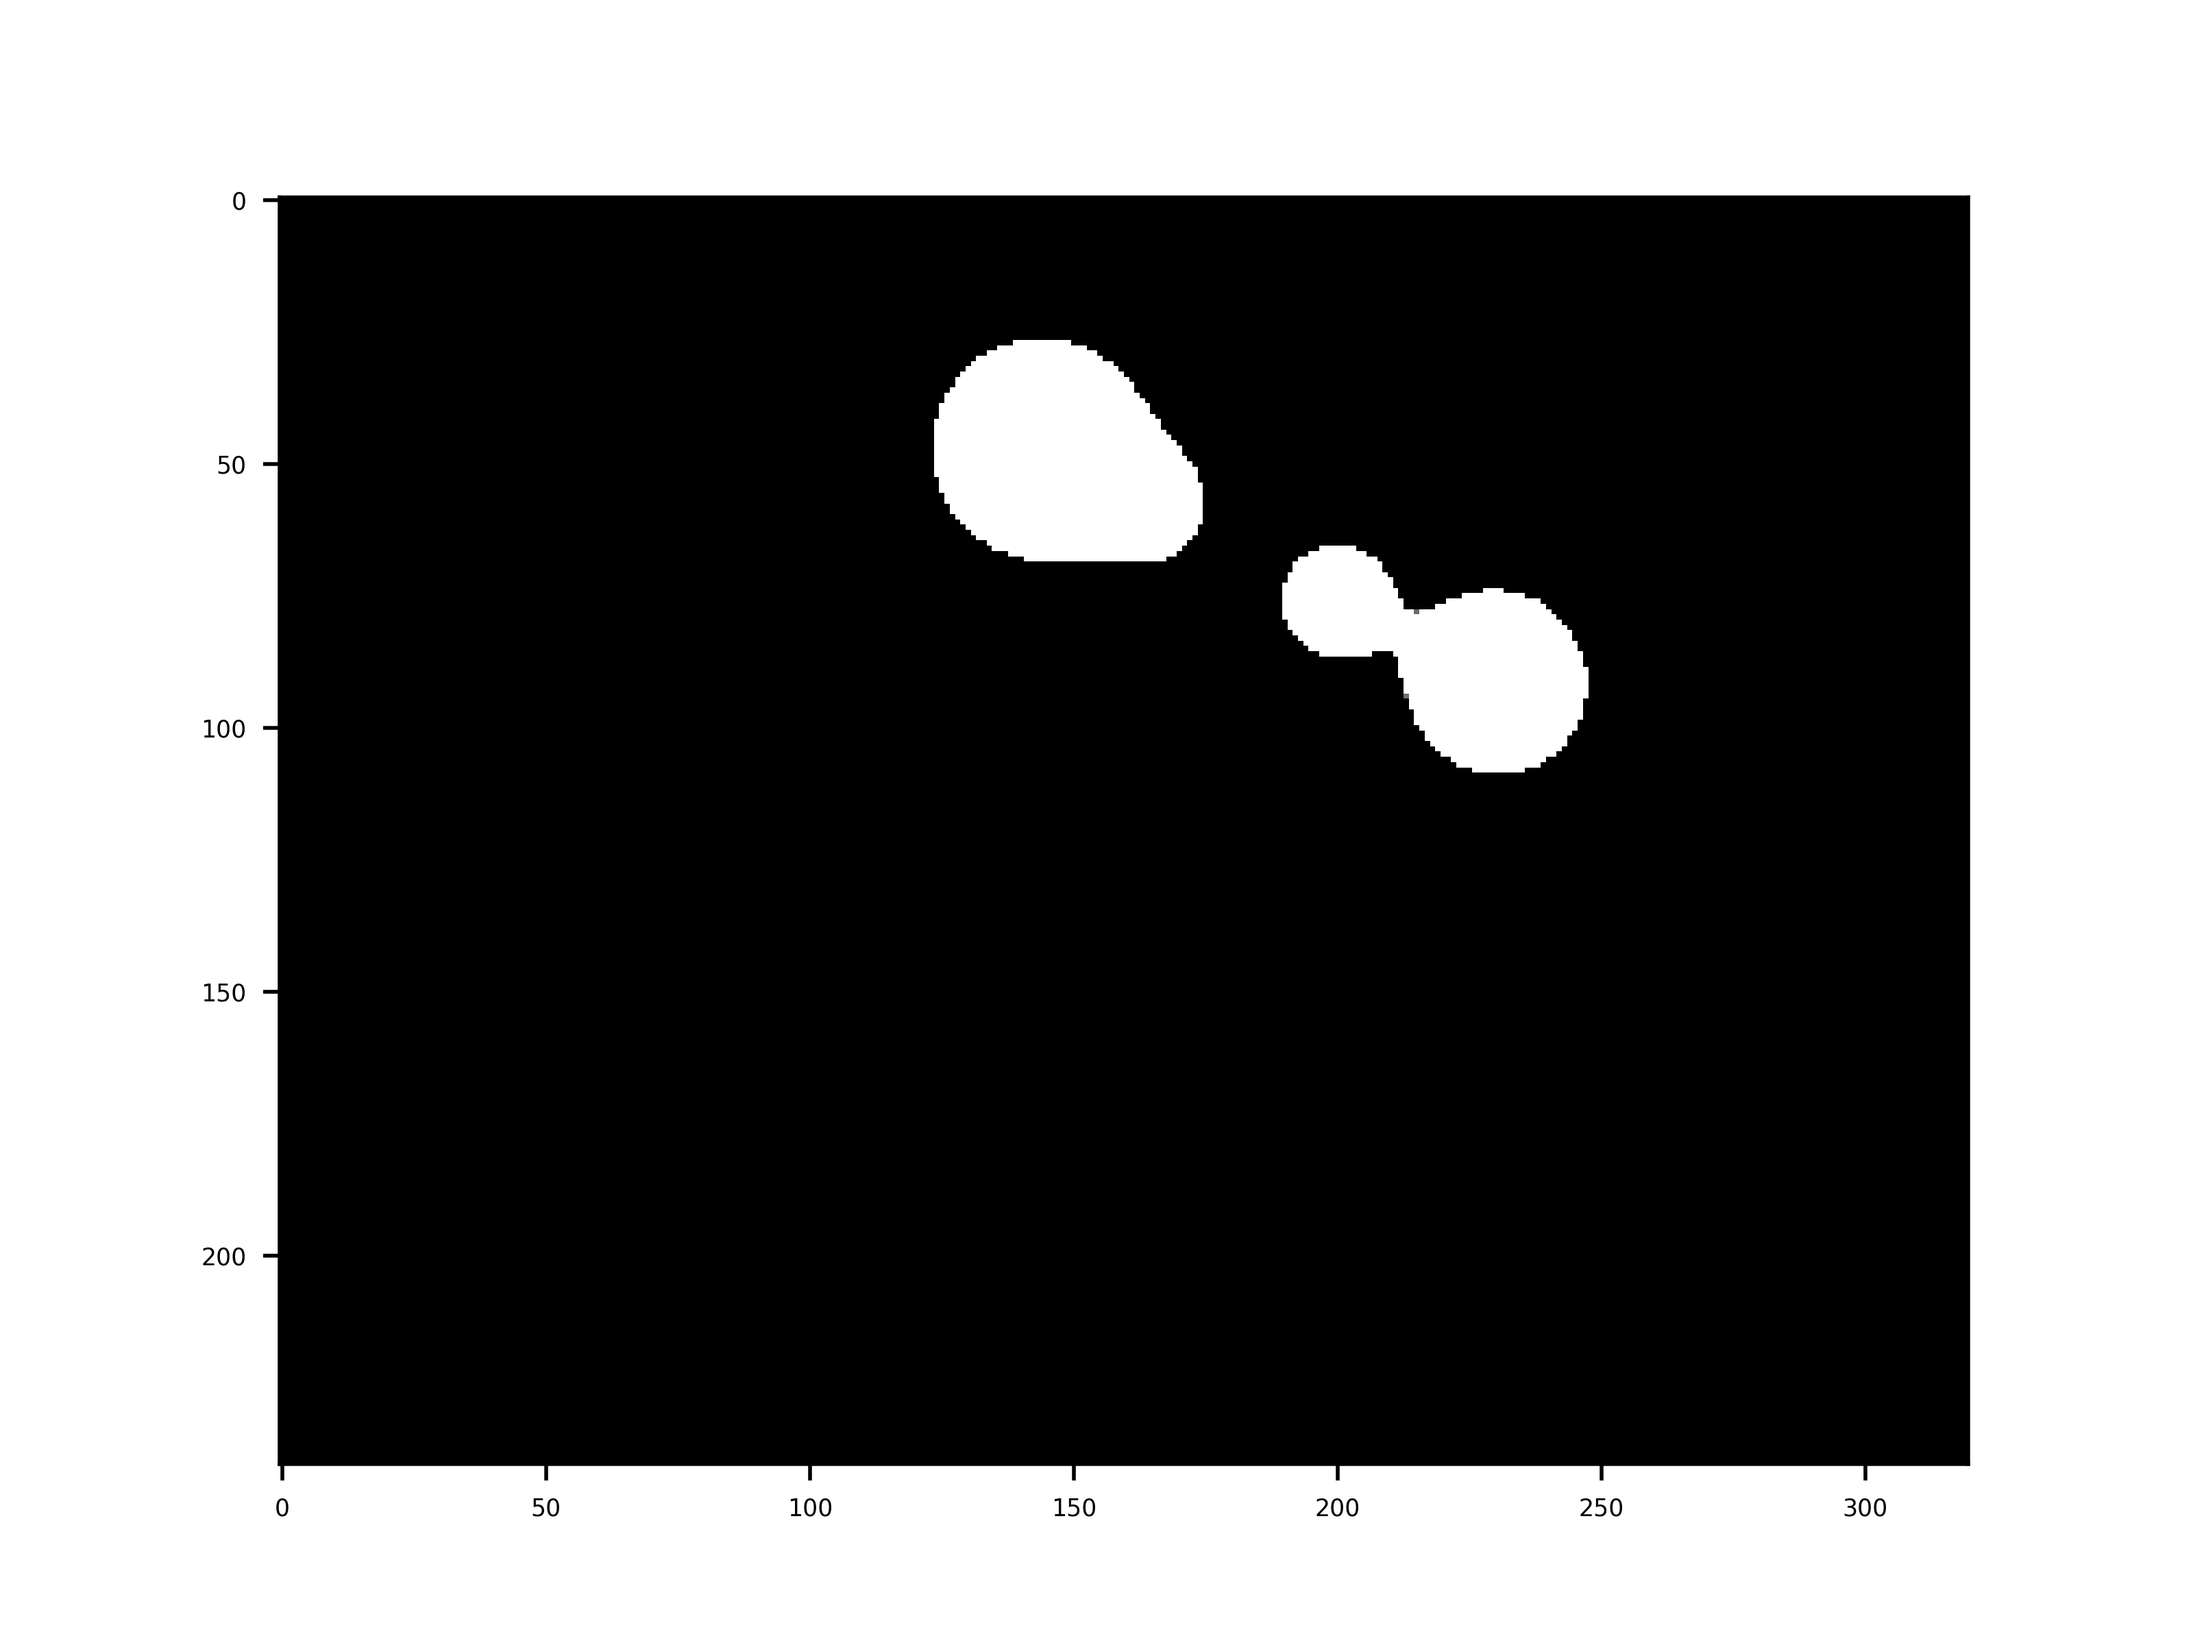
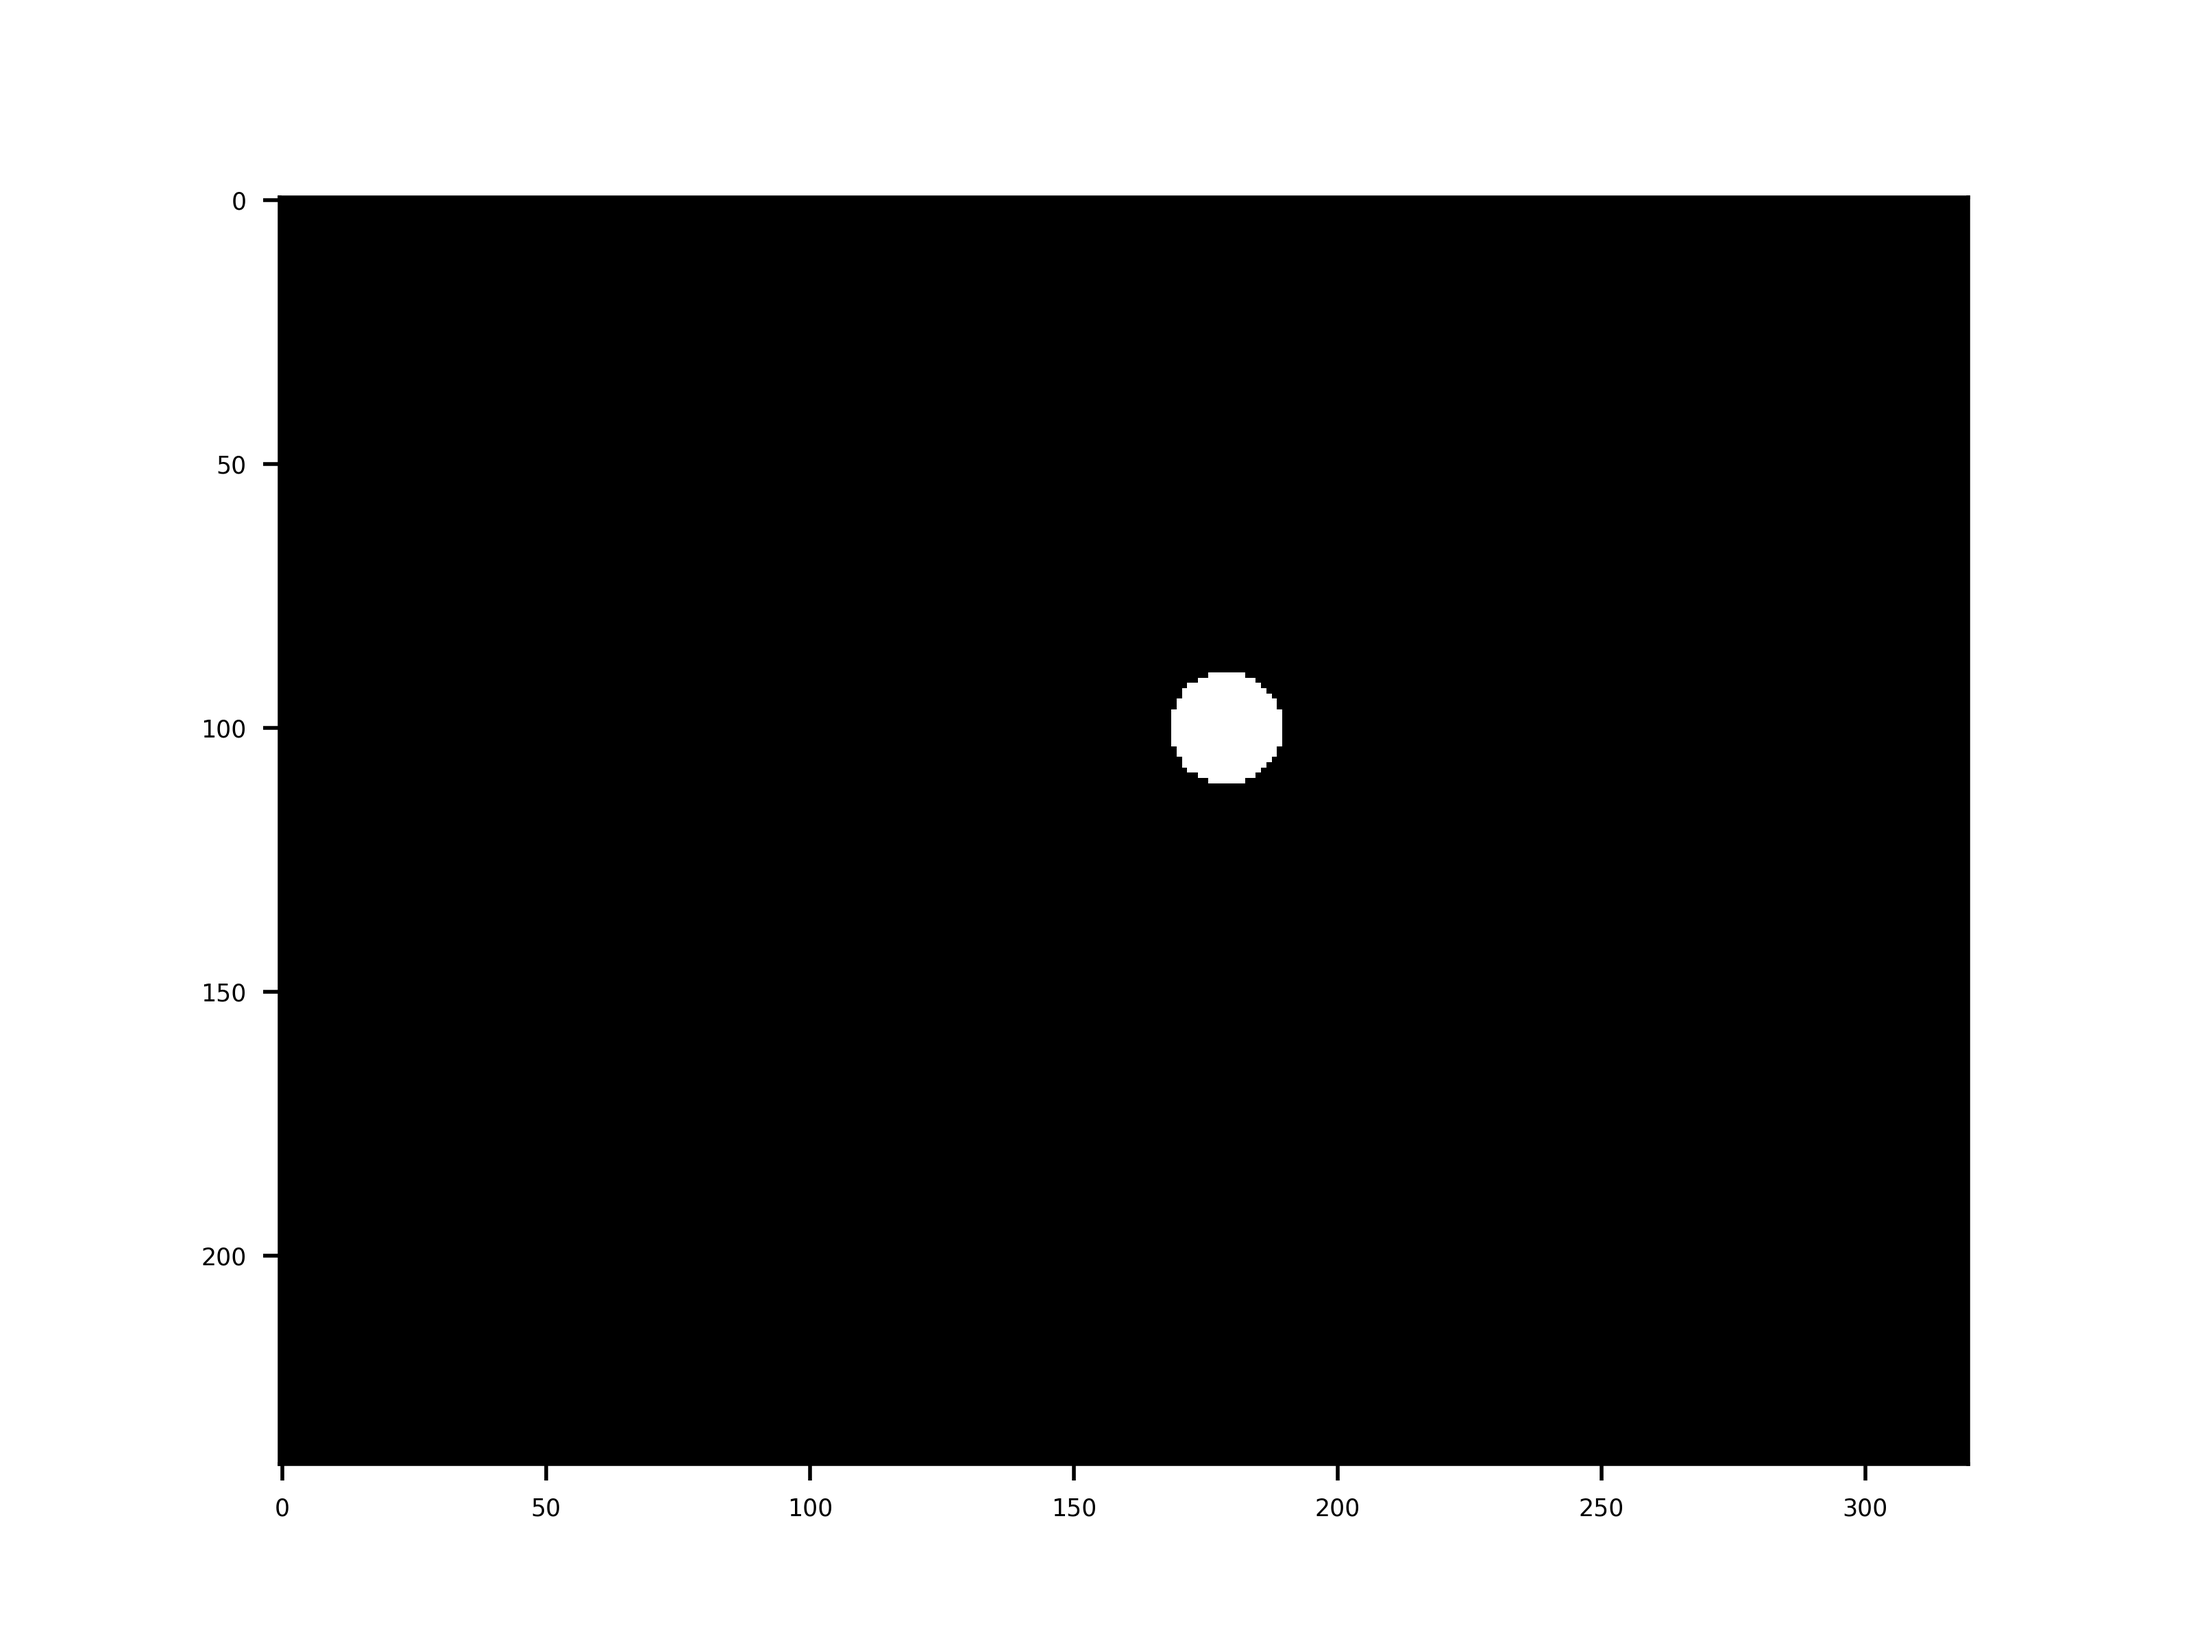
padding for faster convergence

Changed region(s): [[0.4062, 0.1875, 0.5625, 0.3438], [0.5625, 0.3125, 0.75, 0.4688], [0.5312, 0.4062, 0.5938, 0.5]]

diff --git a/src/pig/losses/pig.py b/src/pig/losses/pig.py
@@ -29,6 +29,8 @@ class PatchInfoGainLoss(nn.Module):
         self.movement_loss_weight=config['movement_loss_weight']
         self.num_keypoints=config['num_keypoints']
         self.status_weight=config['status_weight']
+        self.fm_threshold=config['fm_threshold']
+        self.schedule=config['schedule']
         # extract patches
         self.patch_extractor=PatchExtractor(config, std=config['std_for_featuremap_generation'], aggregate=True)
         self.count=0
@@ -61,7 +63,7 @@ class PatchInfoGainLoss(nn.Module):
         fm=fm-thresh
         fm=F.sigmoid(10000*fm)
         # # visualize the thresholded gaussian
-        # plt.imshow(fm[0,0,0].detach().cpu().numpy(),cmap='gray')
+        # plt.imshow(fm.detach().cpu().numpy(),cmap='gray')
         # plt.show()
         # save figure locally
         # plt.savefig('thresholded_gaussian.png')
@@ -83,6 +85,8 @@ class PatchInfoGainLoss(nn.Module):
         # N x SF x KP
         # sum the entropy of each image
         rgb_entropy_sum=rgb_entropy.sum(dim=(-1,-2))
+        # penalize keypoints in the background
+        rgb_entropy-=0.1
         # distance_travelled.register_hook(lambda grad: print("distance_travelled",grad.mean()))
         # status.register_hook(lambda grad: print("status",grad.mean()))
         # multiply the feature maps with the status
@@ -93,7 +97,7 @@ class PatchInfoGainLoss(nn.Module):
         # aggregated_feature_maps.register_hook(lambda grad: print("aggregated_feature_maps_pig",grad.mean()))
         # overlapping_loss.register_hook(lambda grad: print("overlapping_loss",grad.mean()))
         # masked depth entropy
-        aggregated_mask=self.threshold(aggregated_feature_maps,0.25)
+        aggregated_mask=self.threshold(aggregated_feature_maps,self.fm_threshold)
         # aggregated_mask.register_hook(lambda grad: print("aggregated_mask",grad.mean()))
         masked_depth_entropy=rgb_entropy*aggregated_mask
         # we want to encourage maximizing the entropy in the masked regions
@@ -103,7 +107,7 @@ class PatchInfoGainLoss(nn.Module):
         masked_entropy_loss=1-masked_entropy_sum/rgb_entropy_sum
         # penalize the overlapping of the patches
         # the maximum of the aggregated feature maps should as small as possible
-        if masked_entropy_loss.mean()<0.1:
+        if masked_entropy_loss.mean()<self.schedule:
             overlapping_loss = aggregated_feature_maps.amax(dim=(-1,-2))
         else:
             overlapping_loss = feature_maps.sum(dim=2).amax(dim=(-1,-2))
@@ -111,10 +115,10 @@ class PatchInfoGainLoss(nn.Module):
         # masked_entropy_loss.register_hook(lambda grad: print("masked_entropy_loss",grad.mean()))
         # the pig loss
         pig_loss = self.masked_entropy_loss_weight*masked_entropy_loss \
-                    + self.overlapping_loss_weight*overlapping_loss
-        if masked_entropy_loss.mean()<0.1:
-            pig_loss+= self.movement_loss_weight*distance_travelled \
-                        + self.status_weight*status.sum(dim=-1).mean()
+                    + self.overlapping_loss_weight*overlapping_loss \
+                    + self.movement_loss_weight*distance_travelled
+        if masked_entropy_loss.mean()<self.schedule:
+            pig_loss+= self.status_weight*status.sum(dim=-1).mean()
         # mean over time
         pig_loss=pig_loss.mean(dim=-1)
         # mean over the batch
@@ -124,7 +128,8 @@ class PatchInfoGainLoss(nn.Module):
         wandb.log({'pig_loss':pig_loss.item(),
                 'pig/masked_entropy_percentage':masked_entropy_loss.mean().item(),
                 'pig/overlapping_loss':overlapping_loss.mean().item(),
-                'pig/movement_loss':distance_travelled.mean().item(),})
+                'pig/movement_loss':distance_travelled.mean().item(),
+                'pig/status_loss':status.sum(dim=2).mean().item()})
         self.count+=1
         torch.cuda.empty_cache()
         return pig_loss

diff --git a/scripts/test.py b/scripts/test.py
@@ -19,21 +19,23 @@ wandb.config={
     'learning_rate':0.001,
     'num_keypoints':32,
     'palindrome':False,
-    'padding':0,
-    'epochs':200,
+    'padding':20,
+    'epochs':50,
     'log_video':True,
-    'log_video_every':20,
+    'log_video_every':10,
     'save_model':False,
     'batch_norm':True,
     # parameters for the pig loss
     'region_size':3,
     'bandwidth':0.001,
     'std_for_featuremap_generation':9,
+    'fm_threshold':0.2,
+    'schedule': 0.4,
     'masked_entropy_loss_weight':100.0,
-    'overlapping_loss_weight':10.0,
-    'movement_loss_weight':0.1,
+    'overlapping_loss_weight':20.0,
+    'movement_loss_weight':0.05,
     'palindrome_weight':0.0,
-    'status_weight':0.3,
+    'status_weight':1.0,
     # parameters for the pcl loss
     'pcl_type': 'representation', # 'histogram', 'representation', 'learning_contrastive' or 'learning_AE'
     'num_samples':8,

diff --git a/src/pig/agents/pig_agent.py b/src/pig/agents/pig_agent.py
@@ -105,11 +105,11 @@ class PIG_agent(nn.Module):
                     feature_maps=self.patch_extractor(coords,human_data.shape[-2:])
                     self.pcl_loss.train_representation(coords.clone(),feature_maps,human_data)
         # train the model
-        for epoch in trange(self.epochs, desc="Training the model"):
+        for epoch in range(self.epochs):#trange(self.epochs, desc="Training the model"):
             # log the trajectory
             if self.log_video and (epoch+1)%self.log_video_every==0:
                 self.log_trajectory()
-            for sample in tqdm(self.dataloader,desc='Epoch {0}'.format(epoch), leave=False):
+            for sample in self.dataloader:#tqdm(self.dataloader,desc='Epoch {0}'.format(epoch), leave=False):
                 # get the data
                 human_data=sample['human']
                 robot_data=sample['robot']

diff --git a/src/pig/models/kpae.py b/src/pig/models/kpae.py
@@ -152,7 +152,7 @@ class Encoder(nn.Module):
         # log the activation score as points to wandb
         # wandb.log({'activation_score_{0}'.format(i):activation_score[0,i].item() for i in range(self.num_feature_maps)})
         # threshold the activation score
-        status=torch.sigmoid(1000*(activation_score-20)).unsqueeze(-1)
+        status=torch.sigmoid(1000*(activation_score-10)).unsqueeze(-1)
         # # use softplus to constrain the output to be positive
         # x=self.softplus(x)
         # x.register_hook(lambda grad: print(grad.mean()))
